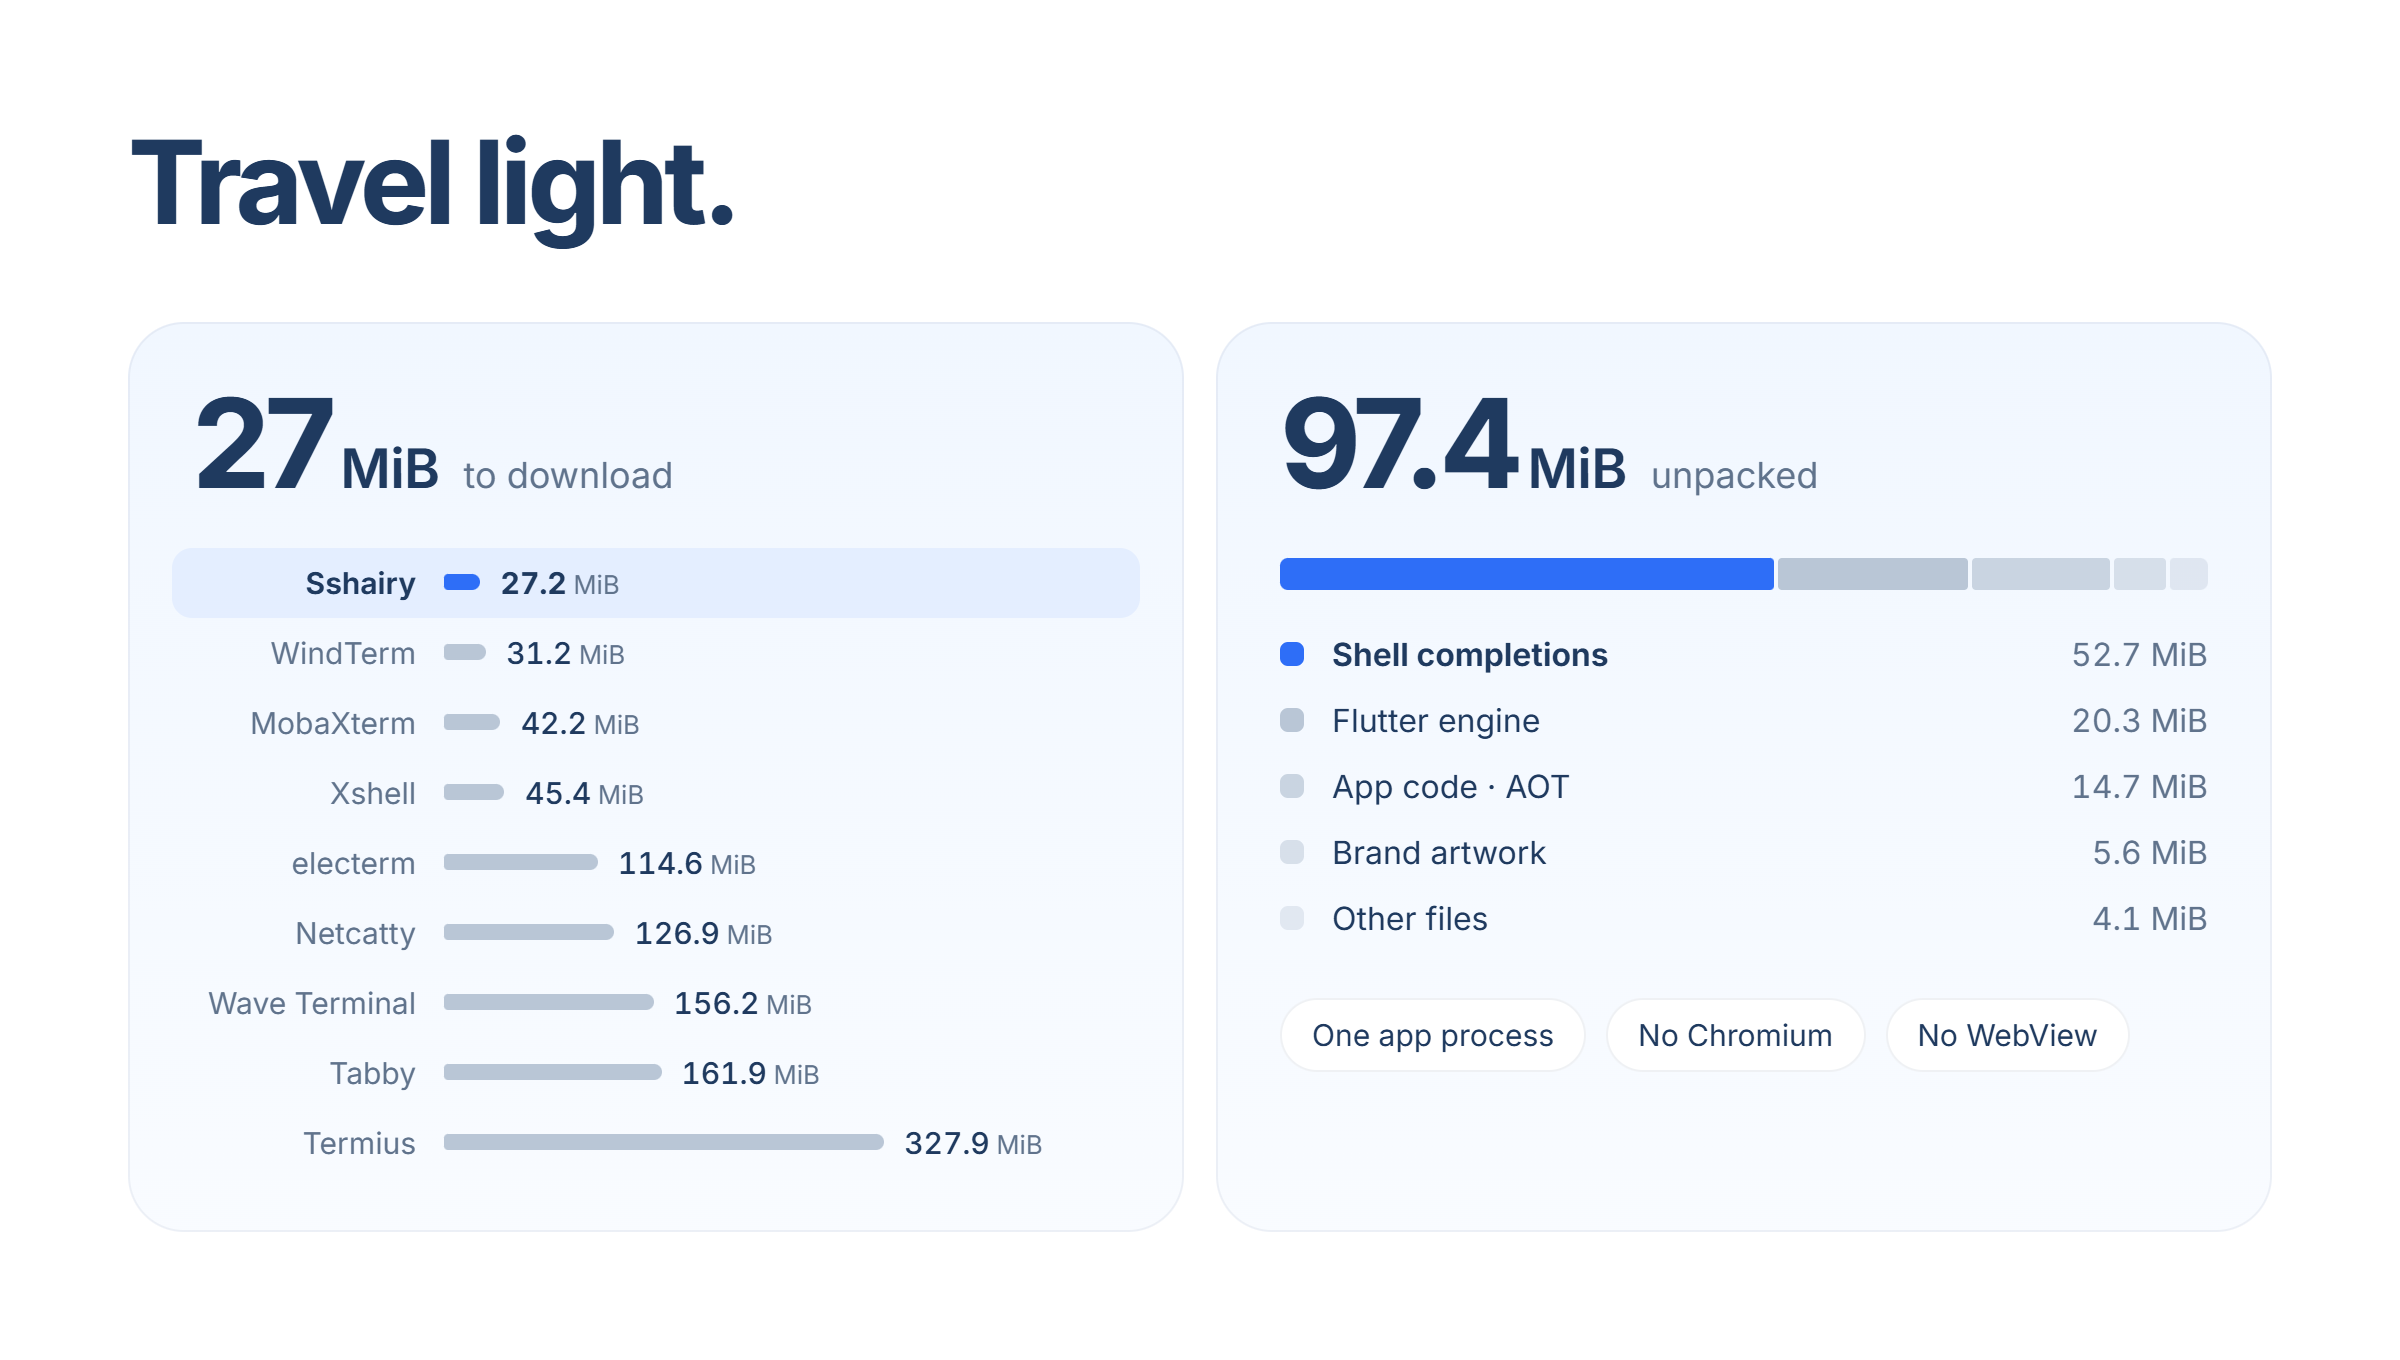
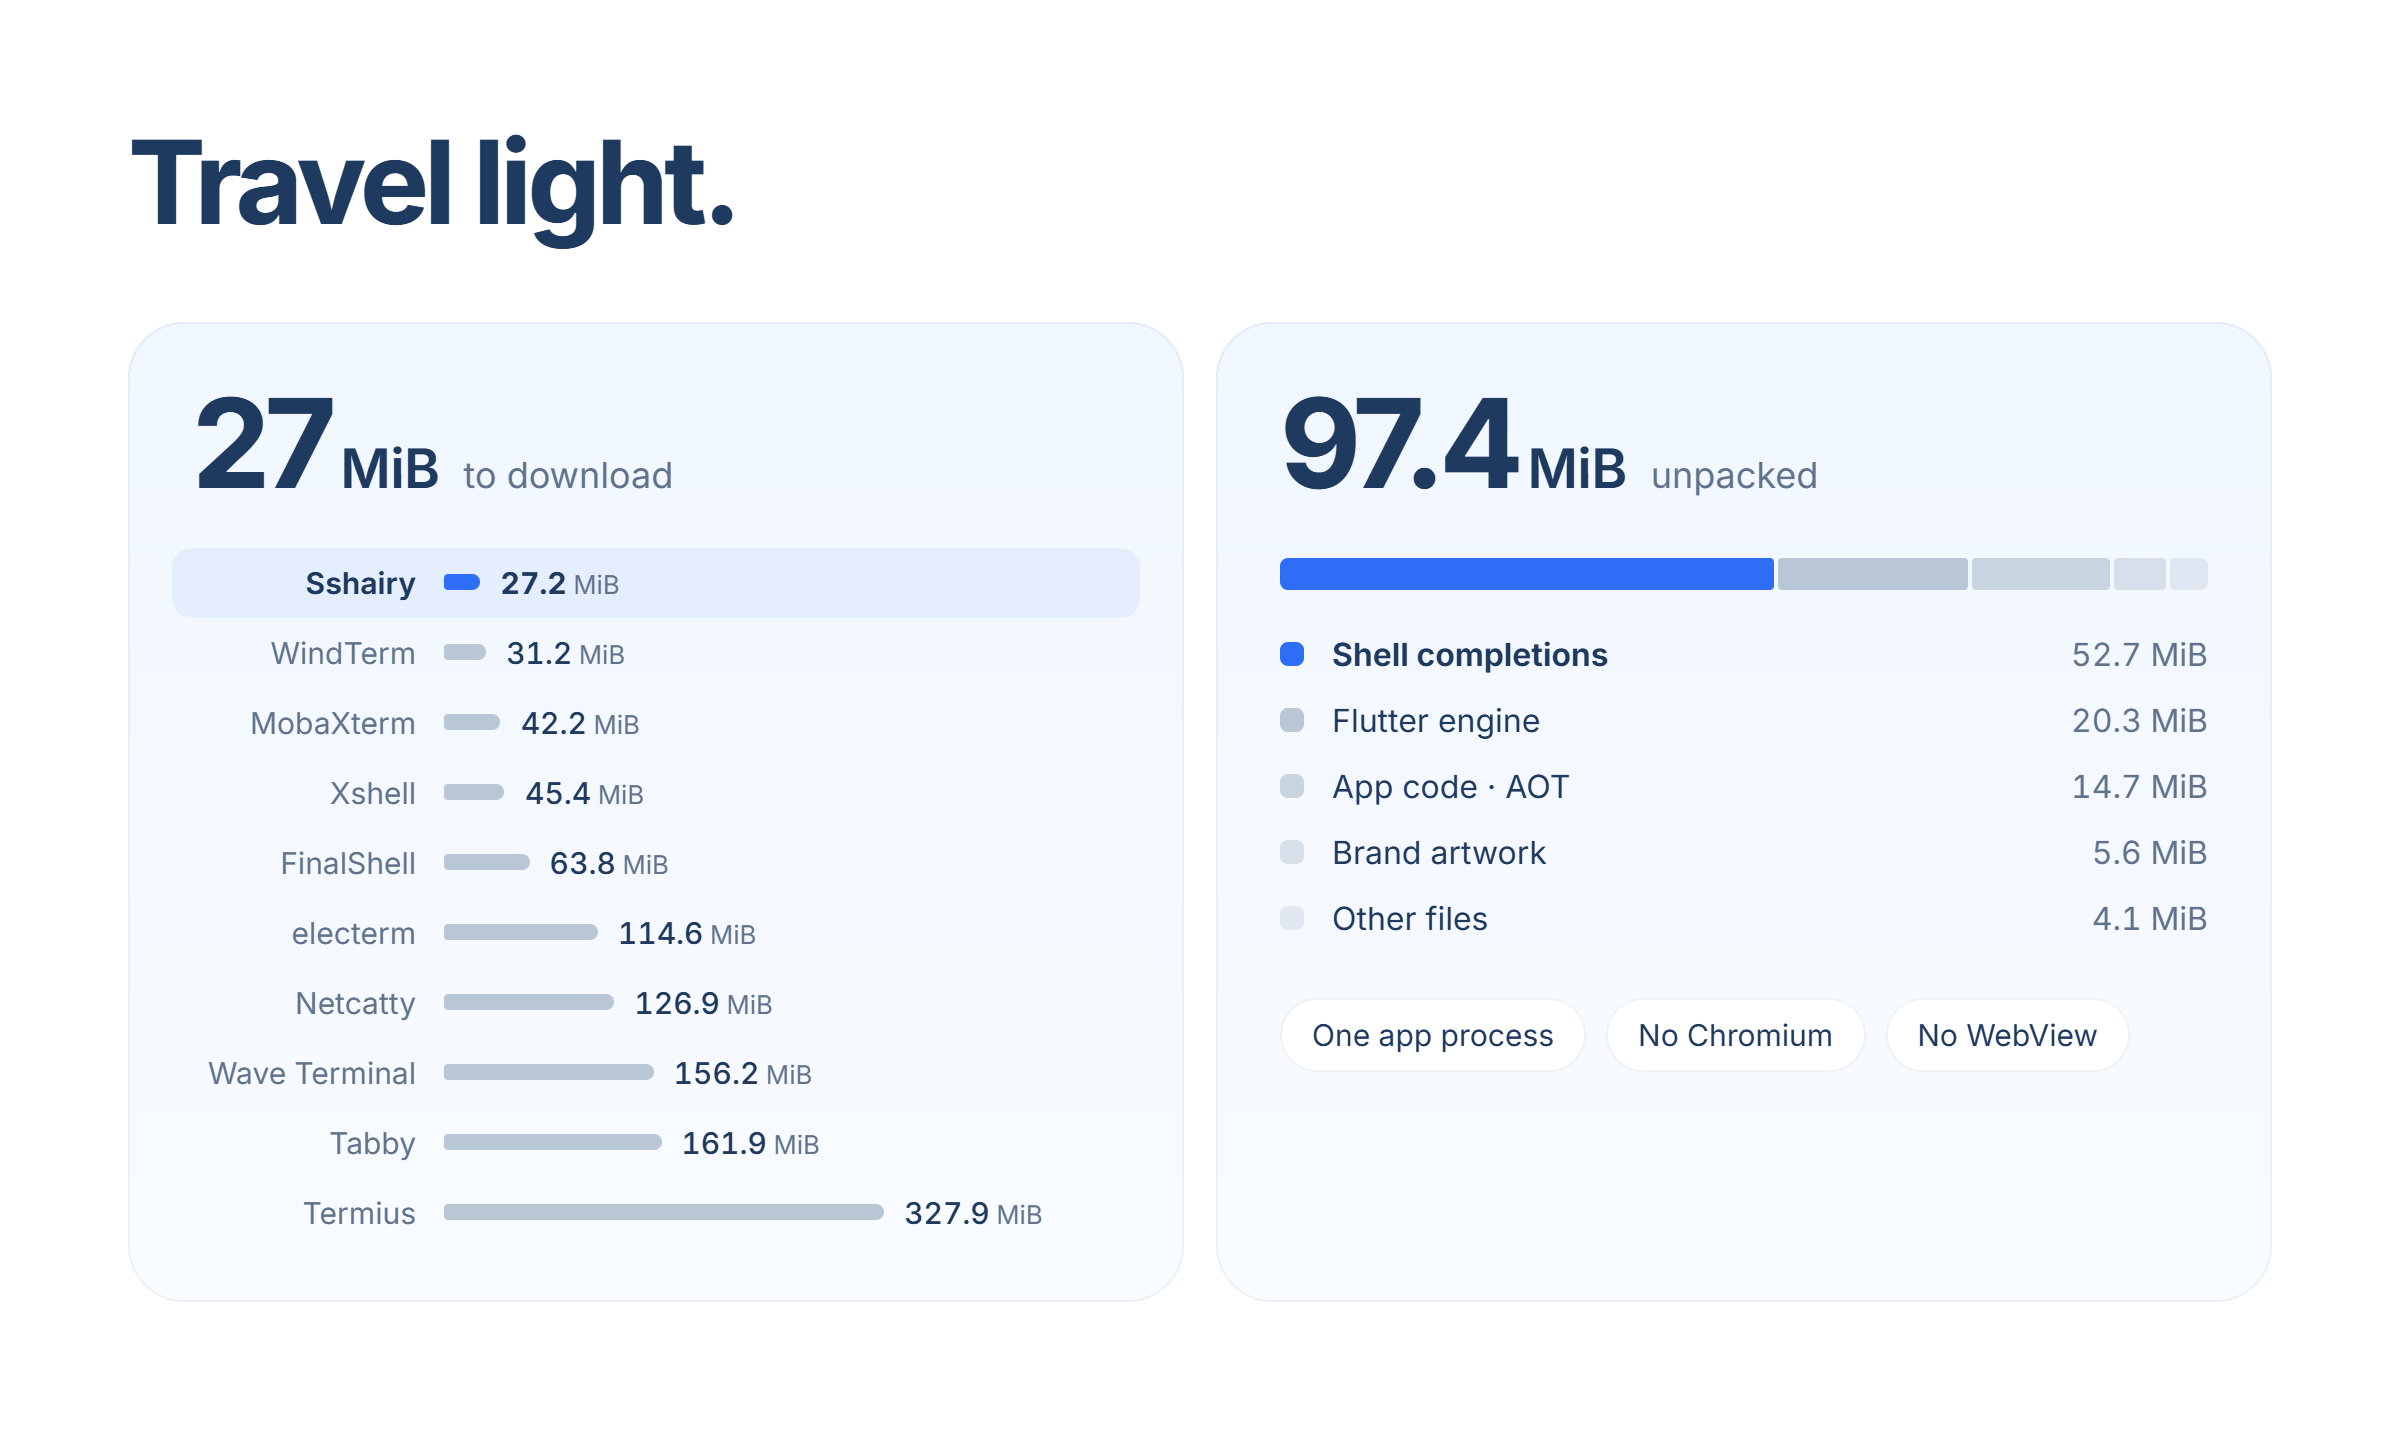
docs: add FinalShell to the download-size comparison
Record the author-provided 63.8 MiB Windows installer size, regenerate the site data and both footprint spreads, and update the ten-client references.

diff --git a/site/assets/data.js b/site/assets/data.js
@@ -1,2 +1,2 @@
 // Generated by tool/site/export_assets.py from tool/readme/benchmarks.json; do not edit.
-window.SSHAIRY_DATA = {"startup":[["Sshairy",0.624],["WindTerm",1.333],["Tabby",1.913],["Wave Terminal",2.341],["Netcatty",2.604],["electerm",2.977],["Xshell",3.008],["MobaXterm",3.545],["FinalShell",7.548],["Termius",9.742]],"memory":[["Xshell",35.8],["WindTerm",73.9],["MobaXterm",104.4],["Sshairy",131.3],["FinalShell",333.9],["electerm",414.6],["Netcatty",446.8],["Tabby",480.8],["Wave Terminal",500.2],["Termius",1115.3]],"download":[["Sshairy",27.2],["WindTerm",31.2],["MobaXterm",42.2],["Xshell",45.4],["electerm",114.6],["Netcatty",126.9],["Wave Terminal",156.2],["Tabby",161.9],["Termius",327.9]],"contents":[52.7,20.3,14.7,5.6,4.1]};
+window.SSHAIRY_DATA = {"startup":[["Sshairy",0.624],["WindTerm",1.333],["Tabby",1.913],["Wave Terminal",2.341],["Netcatty",2.604],["electerm",2.977],["Xshell",3.008],["MobaXterm",3.545],["FinalShell",7.548],["Termius",9.742]],"memory":[["Xshell",35.8],["WindTerm",73.9],["MobaXterm",104.4],["Sshairy",131.3],["FinalShell",333.9],["electerm",414.6],["Netcatty",446.8],["Tabby",480.8],["Wave Terminal",500.2],["Termius",1115.3]],"download":[["Sshairy",27.2],["WindTerm",31.2],["MobaXterm",42.2],["Xshell",45.4],["FinalShell",63.8],["electerm",114.6],["Netcatty",126.9],["Wave Terminal",156.2],["Tabby",161.9],["Termius",327.9]],"contents":[52.7,20.3,14.7,5.6,4.1]};

diff --git a/tool/site/export_assets.py b/tool/site/export_assets.py
@@ -25,8 +25,8 @@ POSES = ['default', 'happy', 'speed', 'thinking-ai', 'success', 'security', 'sft
          'ssh-connected', 'coding-focus', 'sleeping']
 # Normal Windows release artifacts, MiB; see tool/readme/SOURCES.md.
 DOWNLOAD = [
-    ('Sshairy', 27.2), ('WindTerm', 31.2), ('MobaXterm', 42.2), ('Xshell', 45.4), ('electerm', 114.6),
-    ('Netcatty', 126.9), ('Wave Terminal', 156.2), ('Tabby', 161.9), ('Termius', 327.9),
+    ('Sshairy', 27.2), ('WindTerm', 31.2), ('MobaXterm', 42.2), ('Xshell', 45.4), ('FinalShell', 63.8),
+    ('electerm', 114.6), ('Netcatty', 126.9), ('Wave Terminal', 156.2), ('Tabby', 161.9), ('Termius', 327.9),
 ]
 # Rounded MiB; the tiny files are grouped so the displayed parts total 97.4.
 CONTENTS = [52.7, 20.3, 14.7, 5.6, 4.1]

diff --git a/tool/readme/SOURCES.md b/tool/readme/SOURCES.md
@@ -60,7 +60,7 @@ The baseline harness is [measure_startup.py](measure_startup.py). For isolated E
 
 ## Downloads and folder contents
 
-The download chart uses the normal Windows release artifacts listed below. The benchmark may use the portable equivalent for isolated installation; its exact downloaded artifact is recorded in the JSON.
+The download chart uses the normal Windows release artifacts listed below. The benchmark may use the portable equivalent for isolated installation; its exact downloaded artifact is recorded in the JSON. FinalShell's 63.8 MiB entry was provided by the author on 2026-11-14 from the normal Windows installer; its artifact hash was not captured, so only the size is recorded.
 
 | Client | Artifact | MiB |
 |---|---|---:|
@@ -68,6 +68,7 @@ The download chart uses the normal Windows release artifacts listed below. The b
 | WindTerm 2.7.0 | Windows portable ZIP | 31.2 |
 | MobaXterm Home 26.6 | Windows portable ZIP | 42.2 |
 | Xshell Free 8.0.0120p | Windows installer | 45.4 |
+| FinalShell | Windows installer | 63.8 |
 | electerm 5.10.0 | Windows installer | 114.6 |
 | Netcatty 1.1.90 | Windows portable EXE | 126.9 |
 | Wave Terminal 0.14.5 | Windows EXE | 156.2 |

diff --git a/README.md b/README.md
@@ -82,7 +82,7 @@ Method, versions and sources are in [tool/readme/SOURCES.md](tool/readme/SOURCES
 
 A **27 MiB download** unpacks to **97.4 MiB** and runs as **one native process**, with 1,453 shell completion specs included.
 
-<img src="media/footprint.png" alt="Download sizes of nine SSH clients and the contents of the Sshairy app folder." width="100%">
+<img src="media/footprint.png" alt="Download sizes of ten SSH clients and the contents of the Sshairy app folder." width="100%">
 
 ## Why
 

diff --git a/README.zh.md b/README.zh.md
@@ -82,7 +82,7 @@ Airy 就在终端旁边，是一位 AI 助手，配备 **39 个工具**，可管
 
 **下载体积 27 MiB，解压后 97.4 MiB，单进程原生运行。** 内置 1,453 个 Shell 补全规格
 
-<img src="media/zh/footprint.png" alt="九款 SSH 客户端的下载体积，以及 Sshairy 应用目录的构成" width="100%">
+<img src="media/zh/footprint.png" alt="十款 SSH 客户端的下载体积，以及 Sshairy 应用目录的构成" width="100%">
 
 ## 初衷
 
